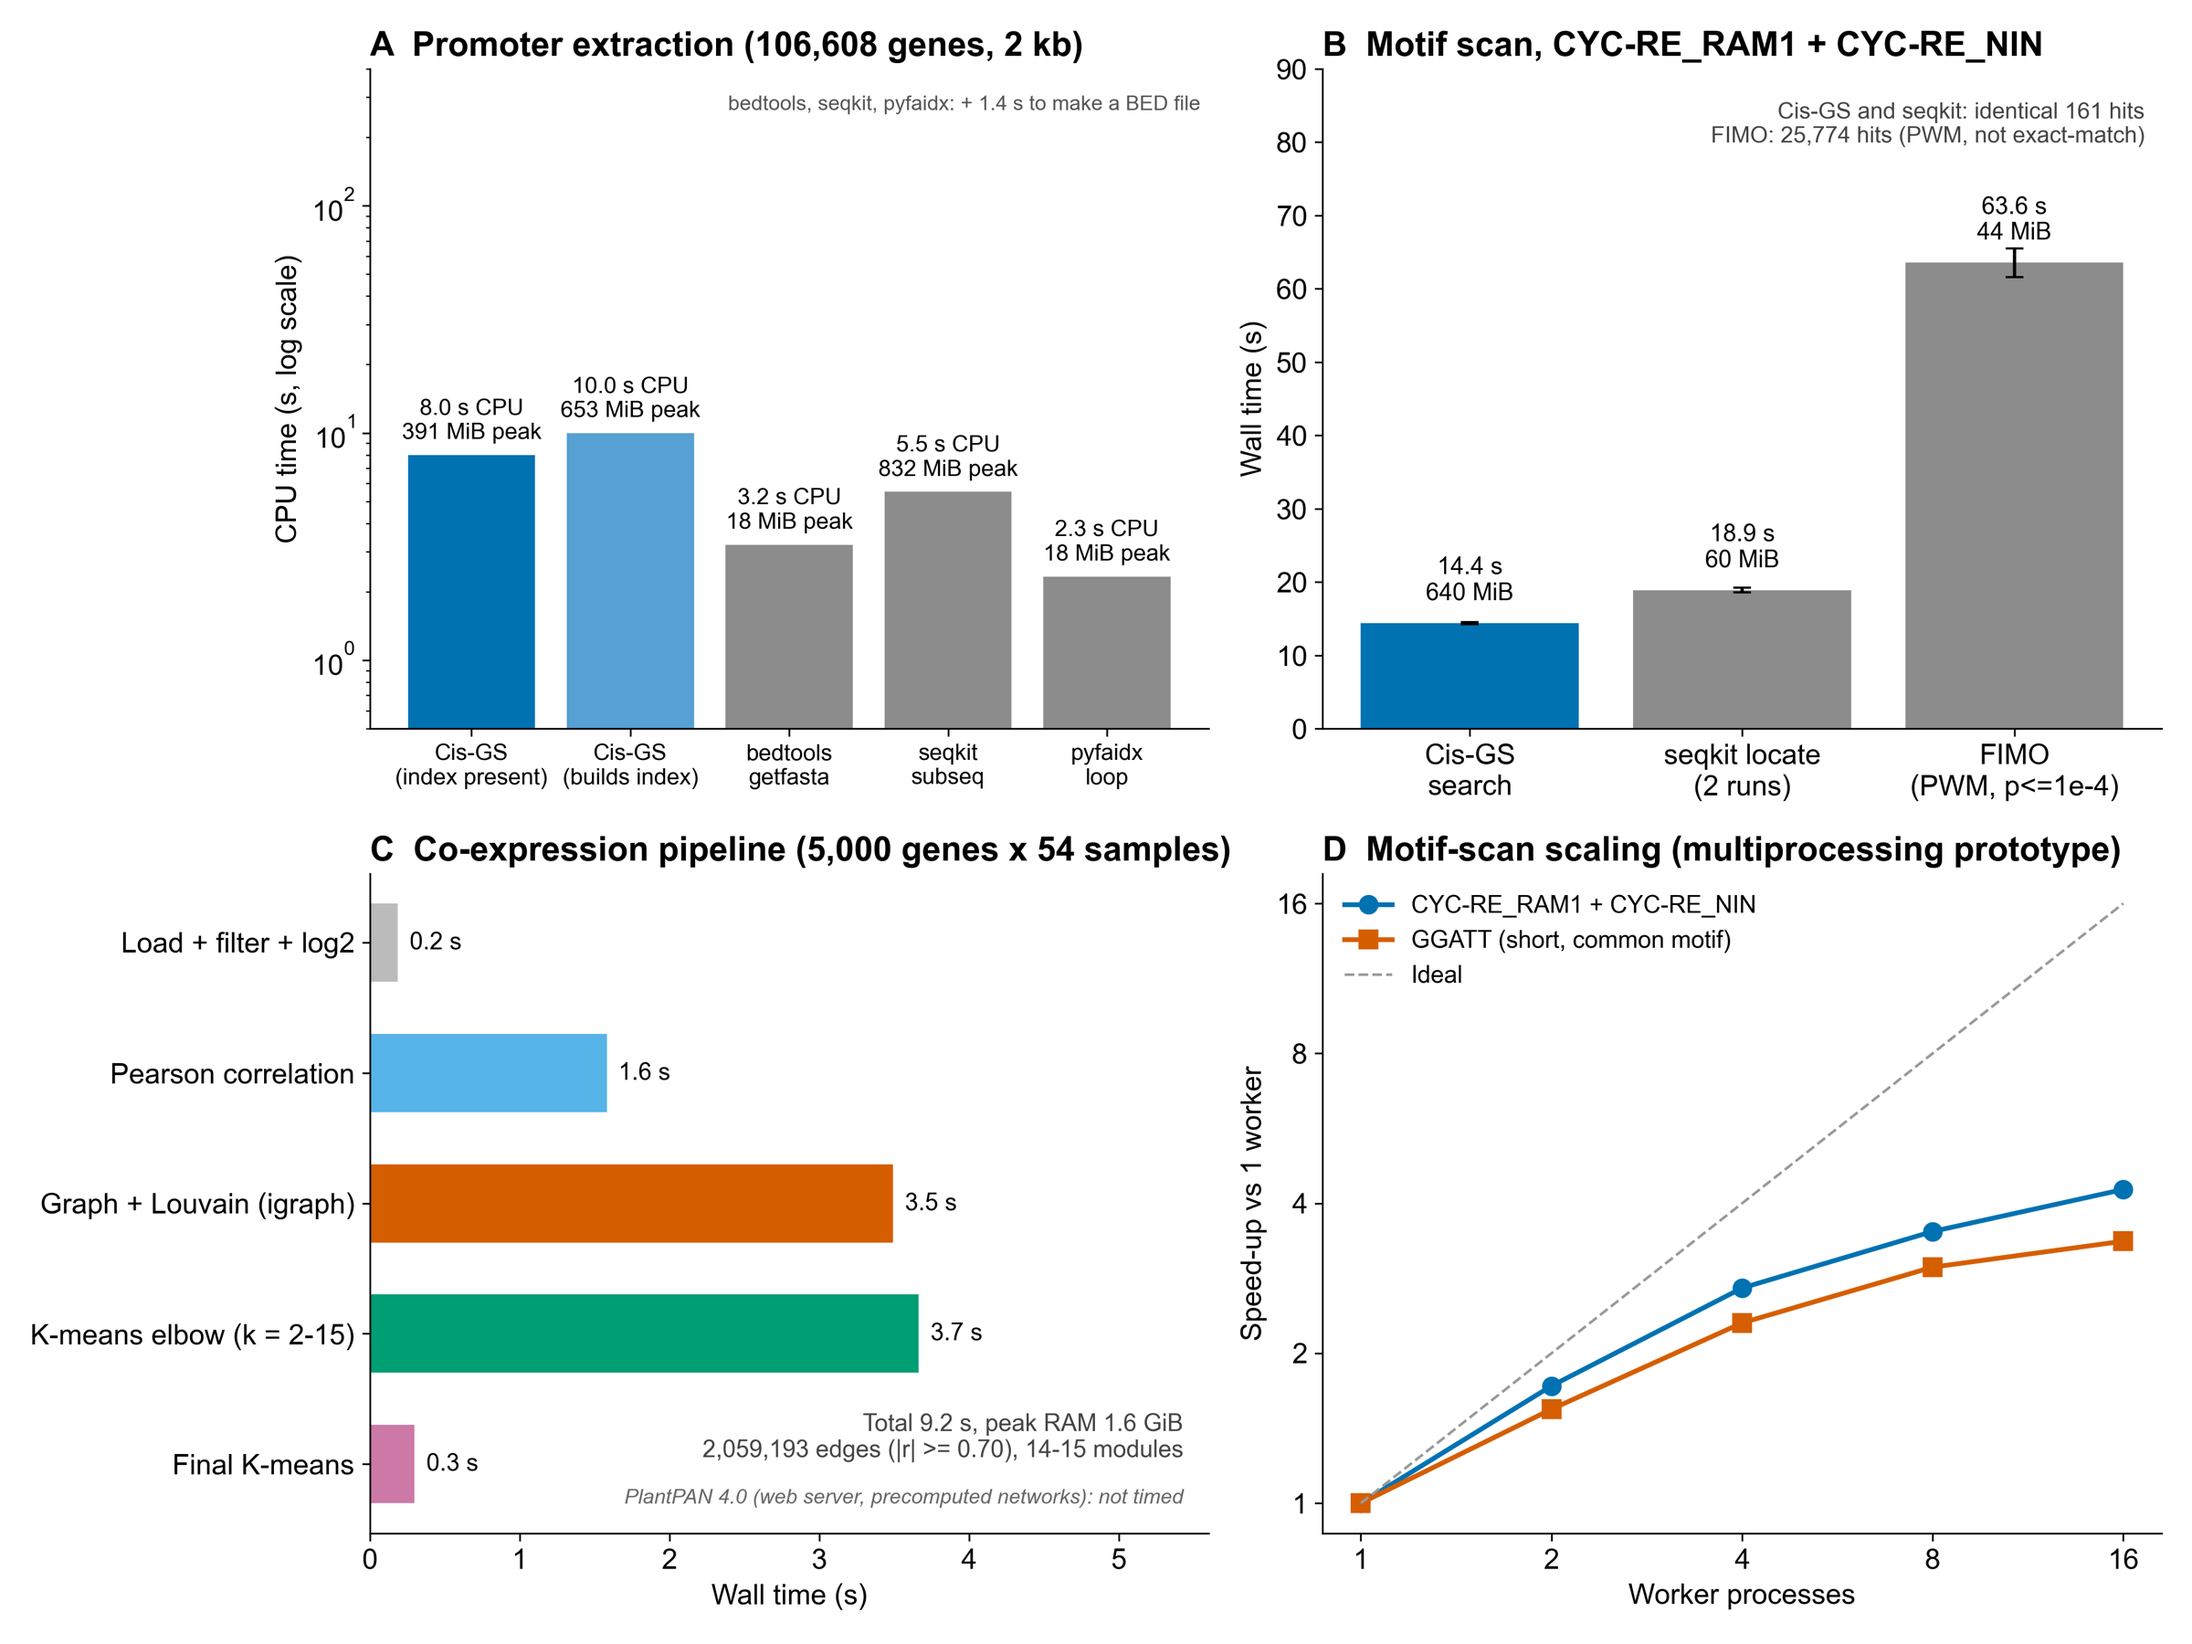
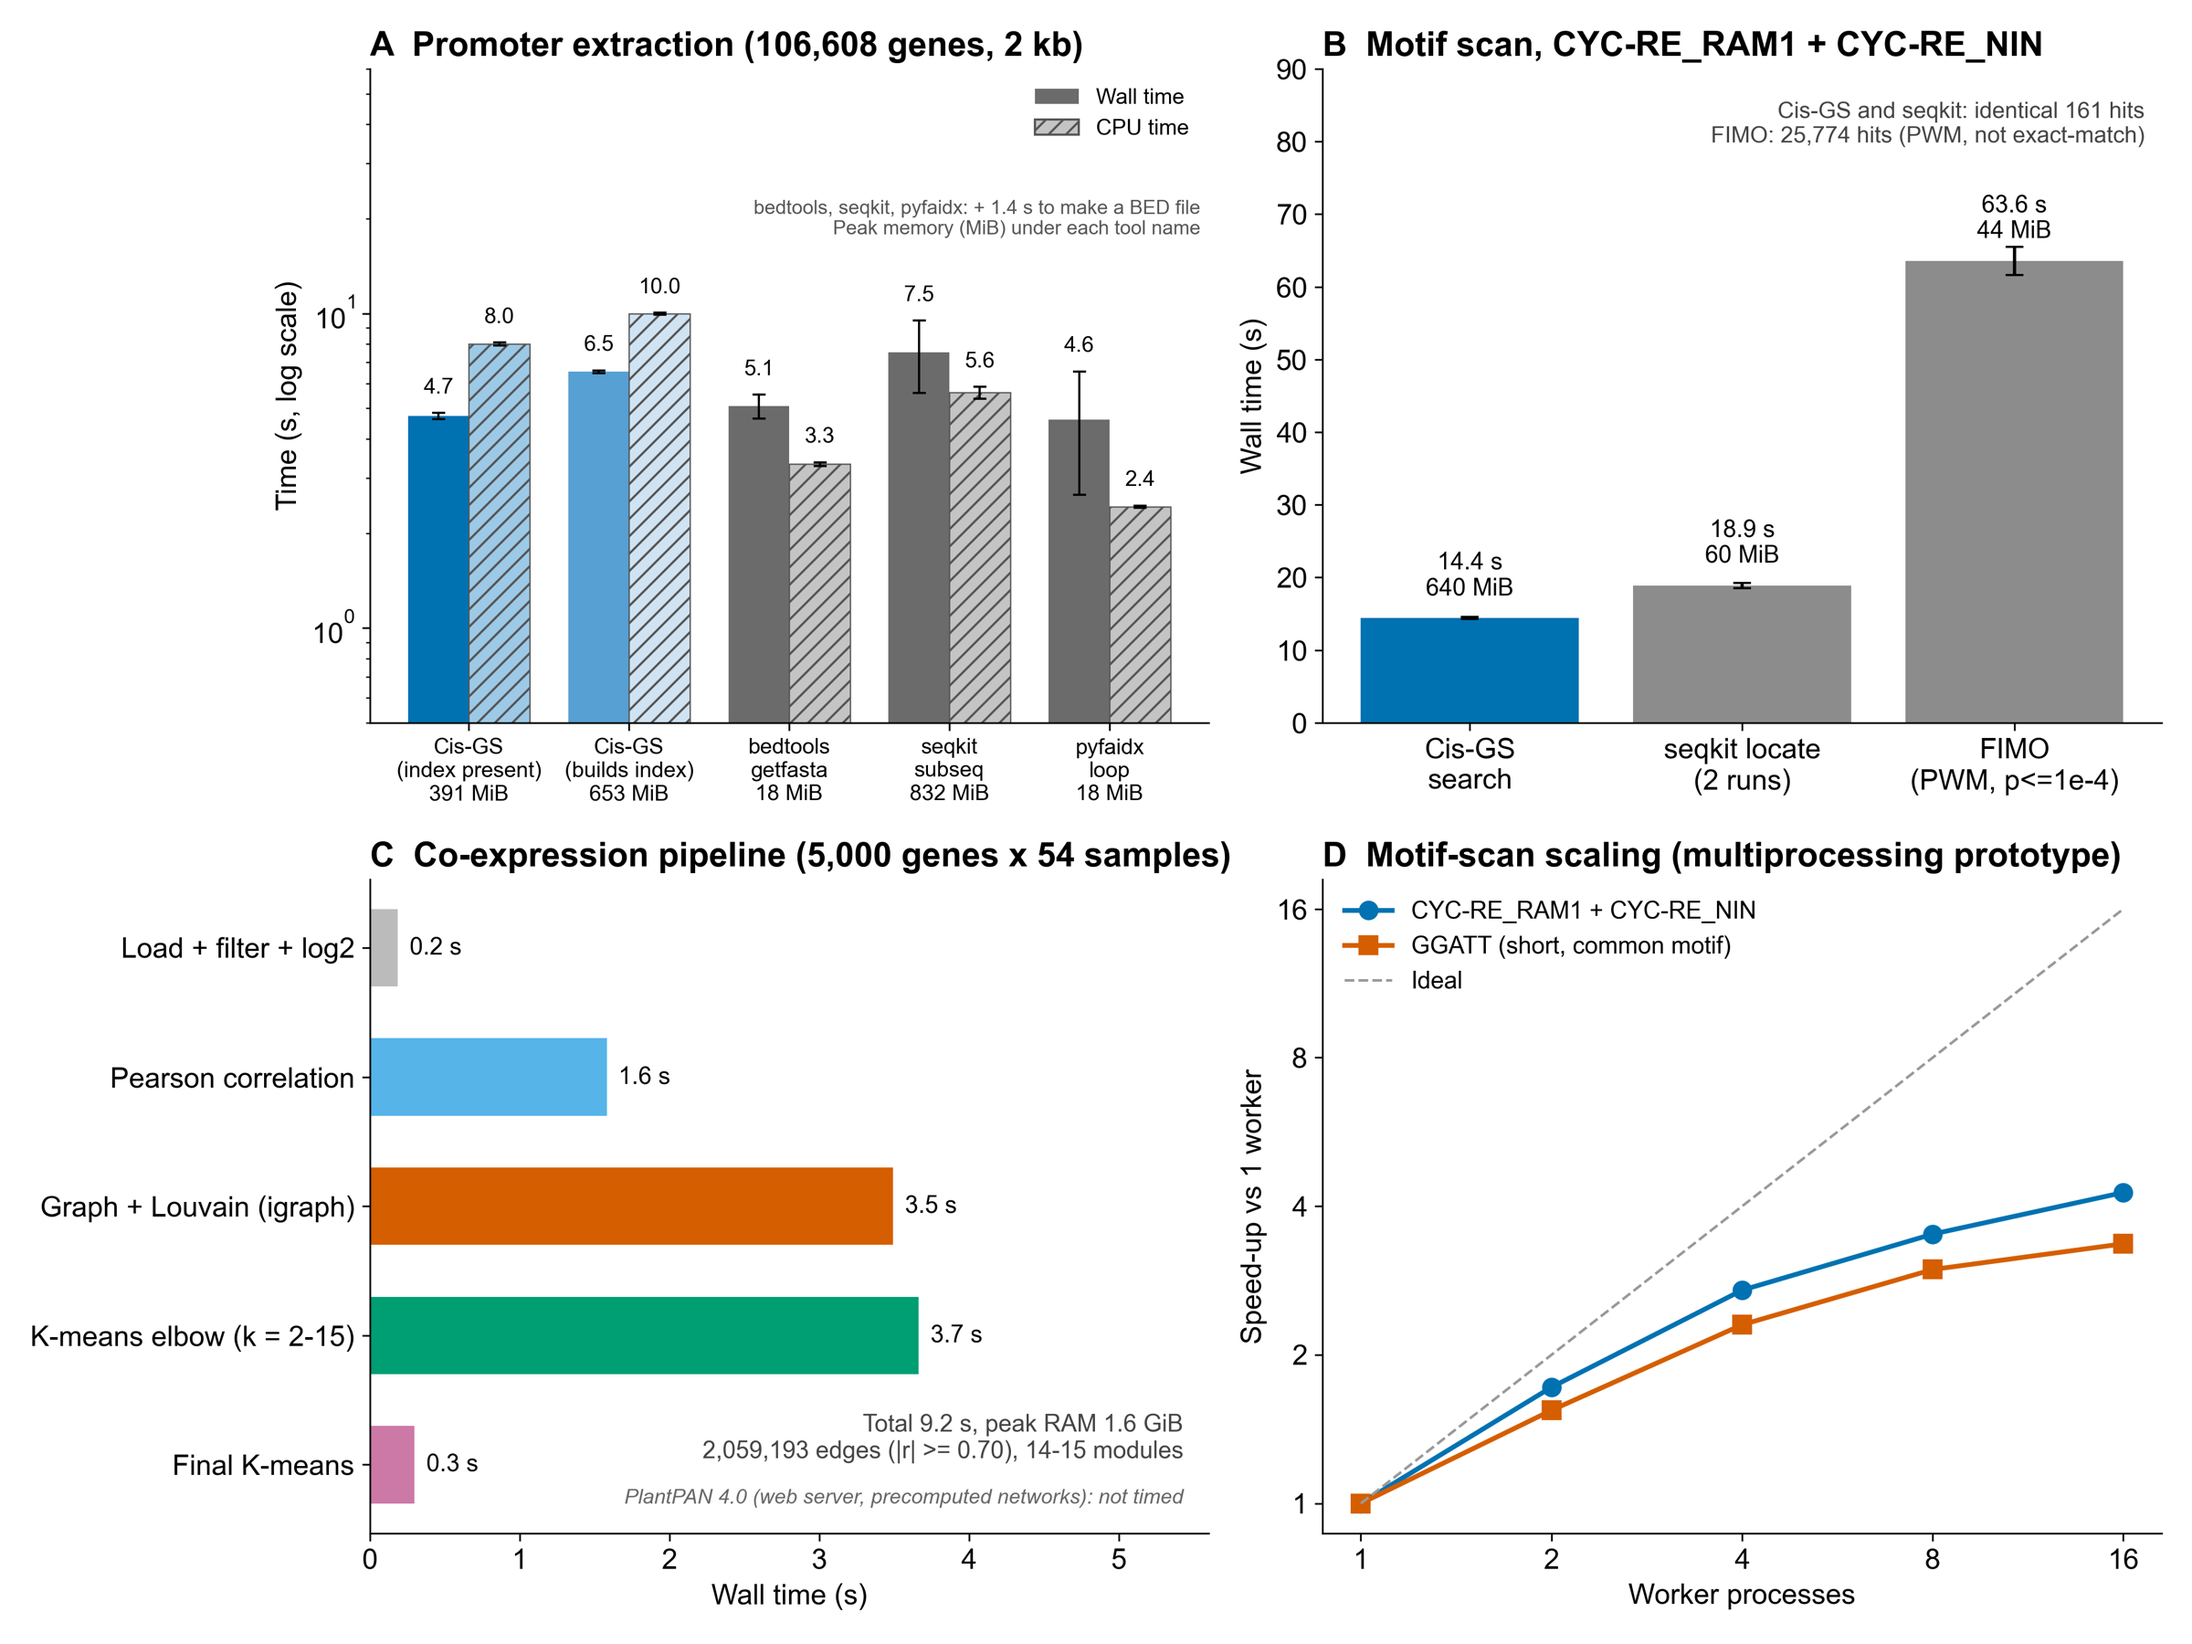
docs: show wall and CPU time in Figure 1A and explain the difference

diff --git a/benchmark_arachis_figure.py b/benchmark_arachis_figure.py
@@ -30,24 +30,31 @@ C_CIS, C_CIS2, C_OTH, C_OLD = "#0072B2", "#56A0D3", "#8c8c8c", "#D55E00"
 
 fig, axs = plt.subplots(2, 2, figsize=(14, 10.5))
 
-# ---- A: promoter extraction (CPU time; reference tools also need a BED file) ----
+# ---- A: promoter extraction (wall time and CPU time; reference tools also need a BED file) ----
 ax = axs[0, 0]
-bed = res["bed generation (awk)"]["wall_mean"]
-items = [("Cis-GS\n(index present)", res["Cis-GS extract"], 0, C_CIS),
-         ("Cis-GS\n(builds index)", res["Cis-GS extract (no .fai, index built in memory)"], 0, C_CIS2),
-         ("bedtools\ngetfasta", res["bedtools getfasta"], bed, C_OTH),
-         ("seqkit\nsubseq", res["seqkit subseq"], bed, C_OTH),
-         ("pyfaidx\nloop", res["pyfaidx loop"], bed, C_OTH)]
-vals = [r["cpu_mean"] + extra for _, r, extra, _ in items]
-ax.bar(range(len(items)), vals, color=[c for *_, c in items])
-for i, (_, r, extra, _) in enumerate(items):
-    ax.text(i, vals[i] * 1.12, f"{vals[i]:.1f} s CPU\n{r['peak_mib']:.0f} MiB peak", ha="center", va="bottom", fontsize=10.5)
-ax.set_yscale("log"); ax.set_ylim(0.5, 400)
-ax.set_xticks(range(len(items))); ax.set_xticklabels([n for n, *_ in items], fontsize=10.5)
-ax.set_ylabel("CPU time (s, log scale)")
+bed_wall, bed_cpu = res["bed generation (awk)"]["wall_mean"], res["bed generation (awk)"]["cpu_mean"]
+items = [("Cis-GS\n(index present)", res["Cis-GS extract"], False, C_CIS, "#9CC9E6"),
+         ("Cis-GS\n(builds index)", res["Cis-GS extract (no .fai, index built in memory)"], False, C_CIS2, "#CFE3F2"),
+         ("bedtools\ngetfasta", res["bedtools getfasta"], True, "#6b6b6b", "#c4c4c4"),
+         ("seqkit\nsubseq", res["seqkit subseq"], True, "#6b6b6b", "#c4c4c4"),
+         ("pyfaidx\nloop", res["pyfaidx loop"], True, "#6b6b6b", "#c4c4c4")]
+wd = 0.38
+for i, (name, r, add_bed, c_wall, c_cpu) in enumerate(items):
+    wall = r["wall_mean"] + (bed_wall if add_bed else 0); cpu = r["cpu_mean"] + (bed_cpu if add_bed else 0)
+    ax.bar(i - wd / 2, wall, wd, yerr=r["wall_sd"], color=c_wall, capsize=3, error_kw={"lw": 1})
+    ax.bar(i + wd / 2, cpu, wd, yerr=r["cpu_sd"], color=c_cpu, hatch="///", edgecolor="#555", linewidth=0.6, capsize=3, error_kw={"lw": 1})
+    ax.text(i - wd / 2, (wall + r["wall_sd"]) * 1.12, f"{wall:.1f}", ha="center", va="bottom", fontsize=10)
+    ax.text(i + wd / 2, (cpu + r["cpu_sd"]) * 1.12, f"{cpu:.1f}", ha="center", va="bottom", fontsize=10)
+ax.set_yscale("log"); ax.set_ylim(0.5, 60)
+ax.set_xticks(range(len(items)))
+ax.set_xticklabels([f"{n}\n{r['peak_mib']:.0f} MiB" for n, r, *_ in items], fontsize=10)
+ax.set_ylabel("Time (s, log scale)")
 ax.set_title("A  Promoter extraction (106,608 genes, 2 kb)", loc="left", fontweight="bold")
-ax.text(0.99, 0.96, "bedtools, seqkit, pyfaidx: + 1.4 s to make a BED file", transform=ax.transAxes,
-        ha="right", va="top", fontsize=9.5, color="#555")
+from matplotlib.patches import Patch
+ax.legend(handles=[Patch(facecolor="#6b6b6b", label="Wall time"), Patch(facecolor="#c4c4c4", hatch="///", edgecolor="#555", label="CPU time")],
+          frameon=False, fontsize=10, loc="upper right")
+ax.text(0.99, 0.80, "bedtools, seqkit, pyfaidx: + 1.4 s to make a BED file\nPeak memory (MiB) under each tool name", transform=ax.transAxes,
+        ha="right", va="top", fontsize=9, color="#555")
 
 # ---- B: motif scan (wall time) ----
 ax = axs[0, 1]

diff --git a/docs/source/performance.rst b/docs/source/performance.rst
@@ -95,6 +95,8 @@ Notes
   Cis-GS additionally parses the GFF3 and writes the promoter table used by
   later steps. The wall time of the reference tools varied between repetitions
   (file-system latency under WSL2) while their CPU time did not.
+* **CPU time versus wall time:** the CPU time of Cis-GS is higher than its wall time because it uses more than one core on average (1.7); loading the Cis-GS
+  modules alone takes about 1.3 s of wall time and 4.3 s of CPU time while the program and its libraries are loaded.
 * **Cores:** extraction and motif scanning used 1.3-1.7 cores on average (CPU time divided by wall
   time). The co-expression step used about 5.5 cores inside NumPy / scikit-learn.
   A multiprocessing prototype of the scan reached 4.3x with 16 workers; it is
